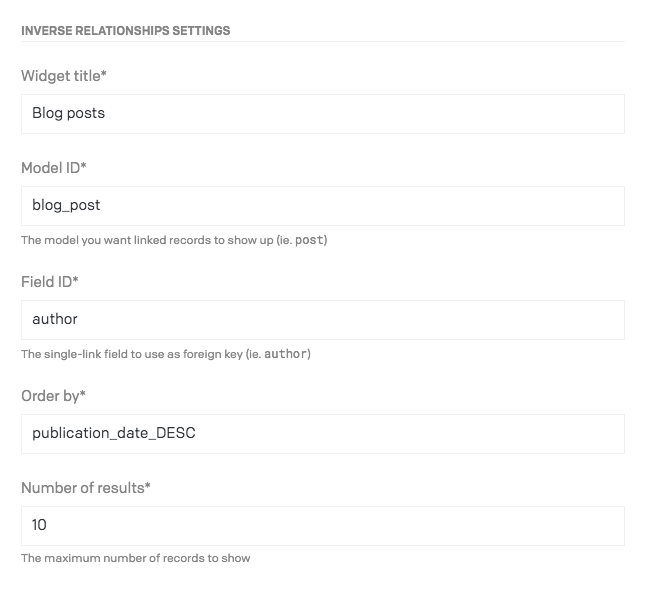
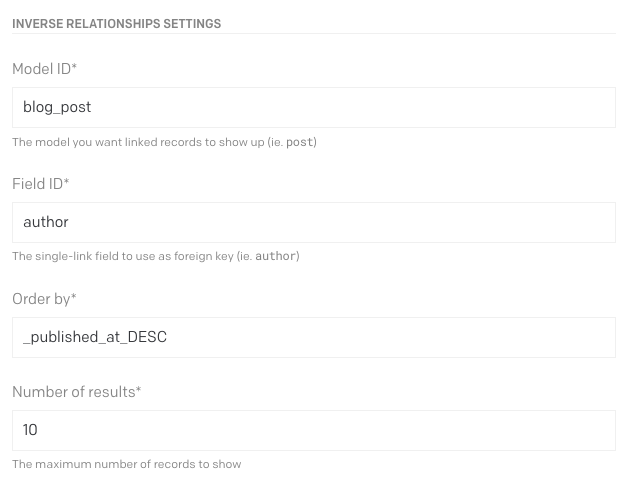
Remove title and outer padding

diff --git a/inverse-relationships/src/index.js b/inverse-relationships/src/index.js
@@ -8,10 +8,6 @@ window.DatoCmsPlugin.init((plugin) => {
   const container = document.createElement('div');
   container.classList.add('container');
   document.body.appendChild(container);
-  const title = document.createElement('h4');
-  title.classList.add('title');
-  title.textContent = plugin.parameters.instance.title;
-  container.appendChild(title);
 
   const postItemType = Object.values(plugin.itemTypes).find(
     itemType => itemType.attributes.api_key === plugin.parameters.instance.itemTypeApiKey,

diff --git a/inverse-relationships/src/style.sass b/inverse-relationships/src/style.sass
@@ -1,13 +1,5 @@
 .container
   background-color: white
-  padding: 24px
-
-.title
-  text-transform: uppercase
-  color: #848484
-  border-bottom: 1px solid #f0f0f0
-  font-size: 12px
-  margin-bottom: 18px
 
 .link
   font-size: 14px
